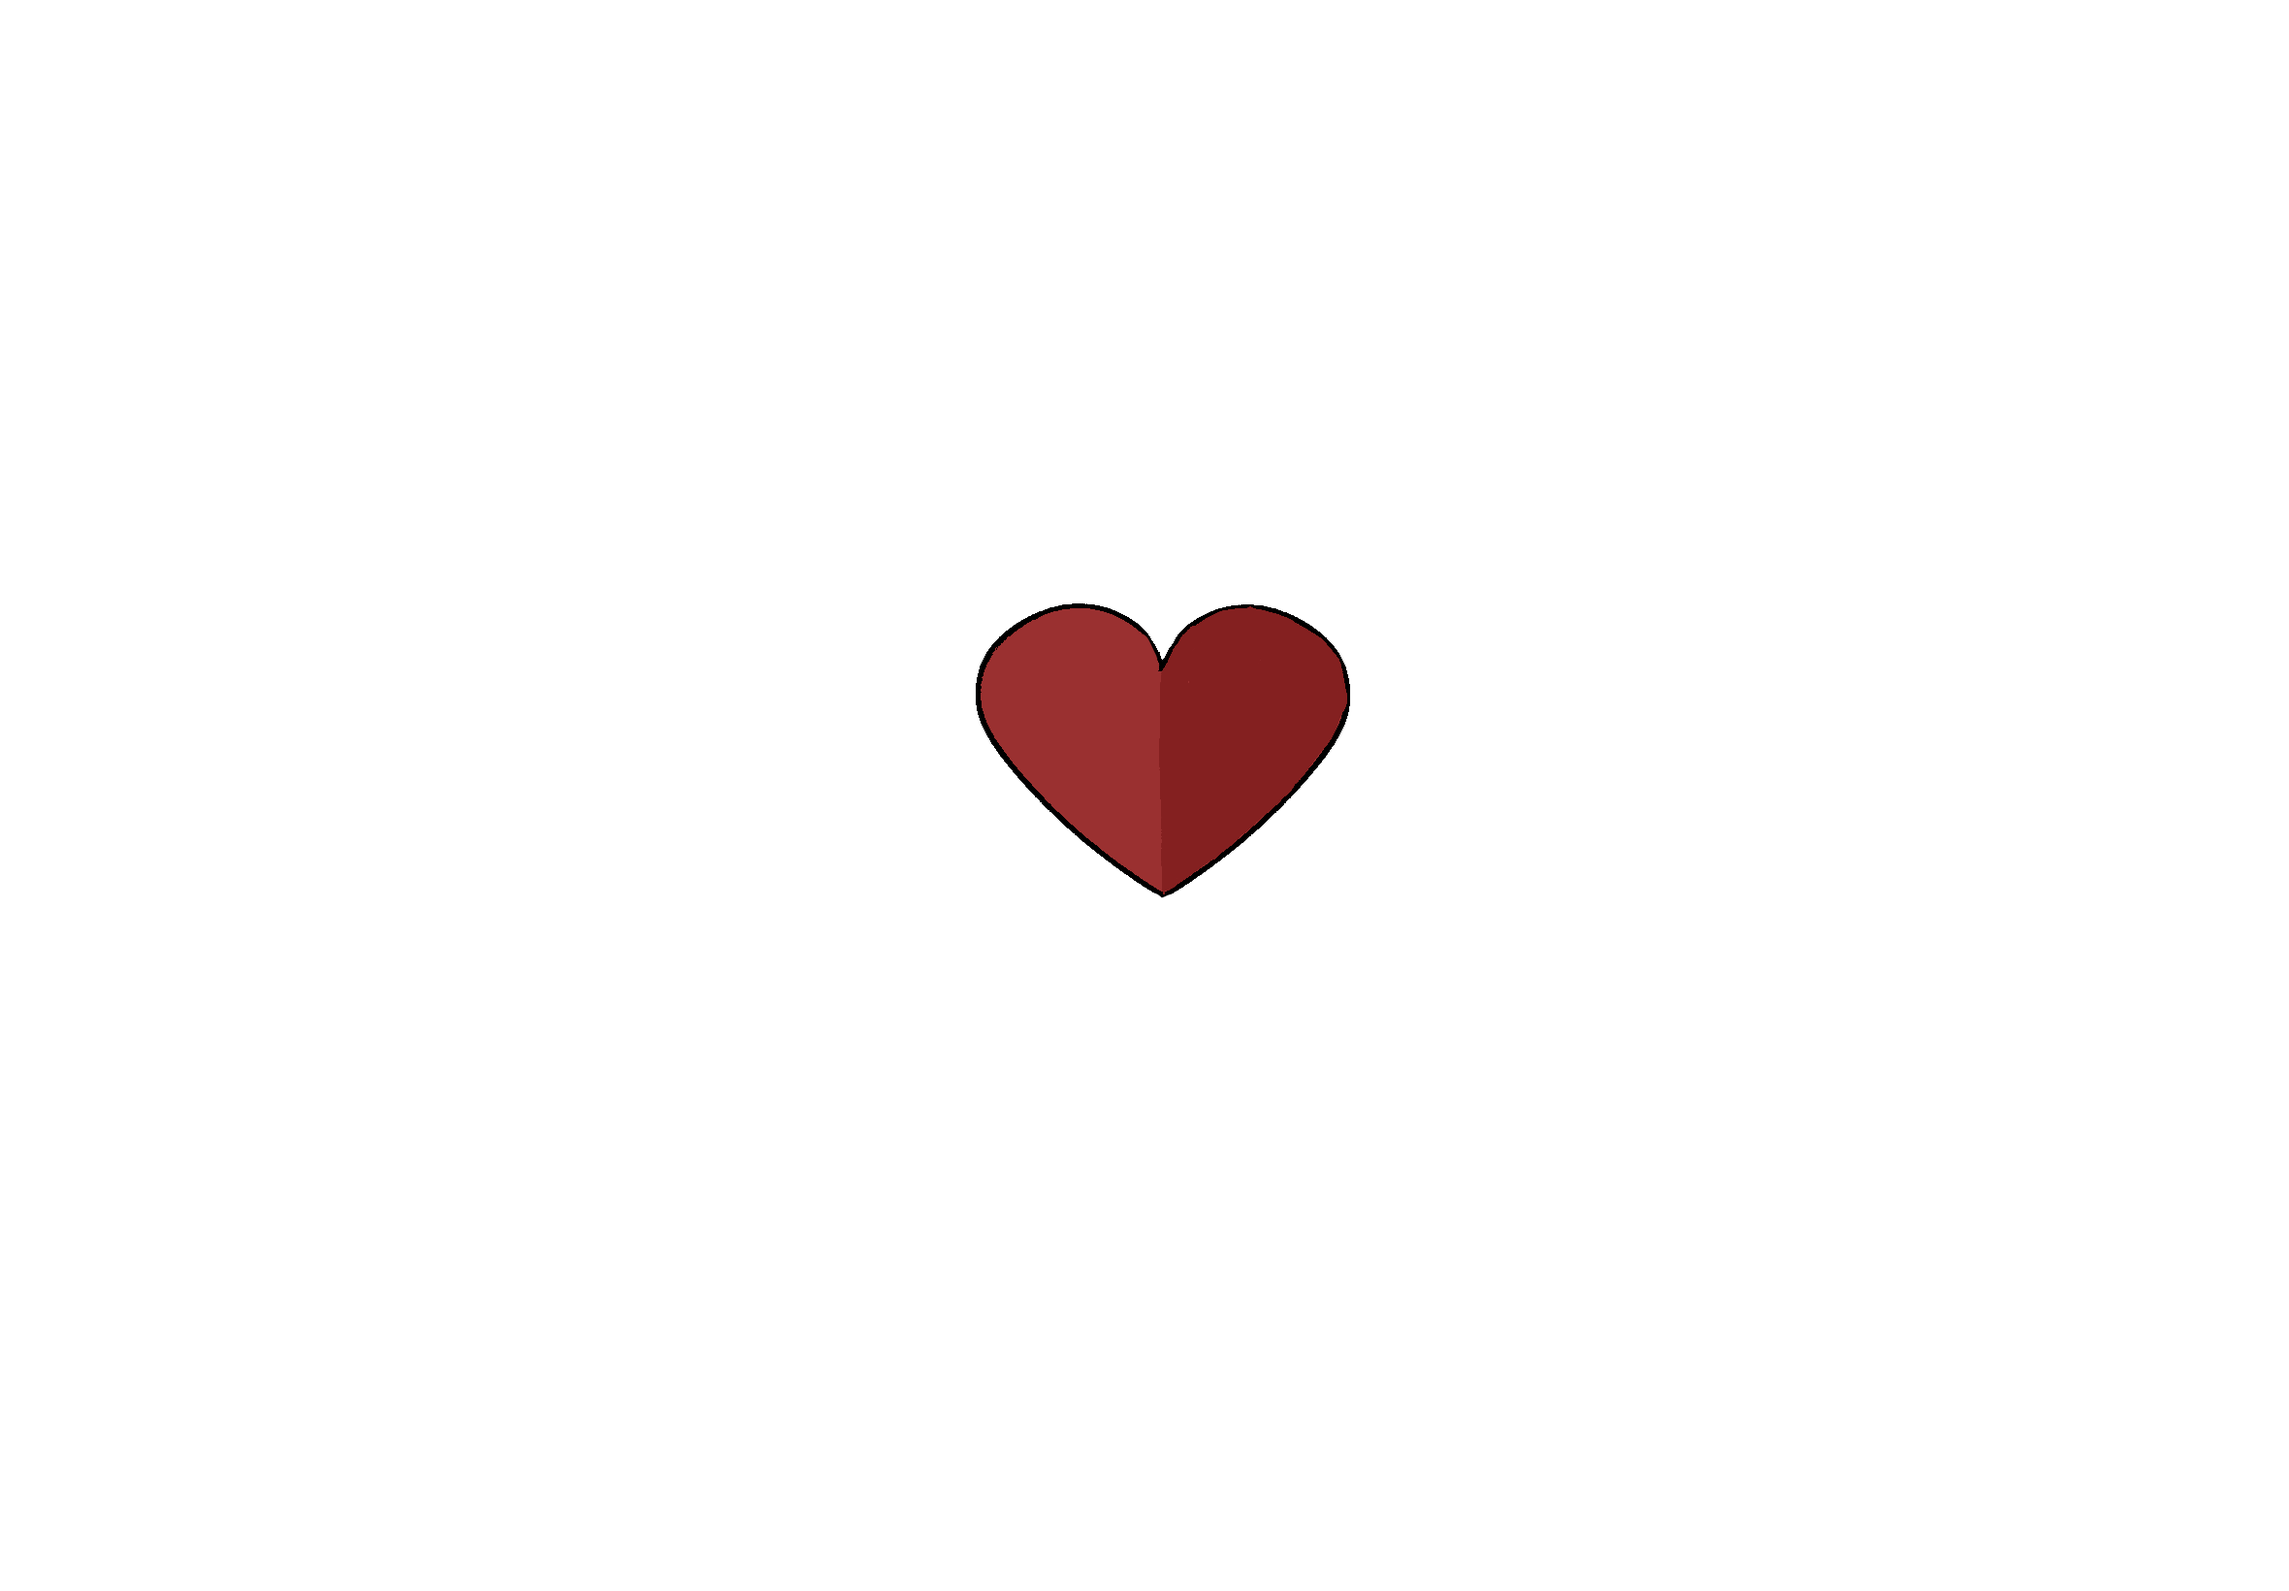
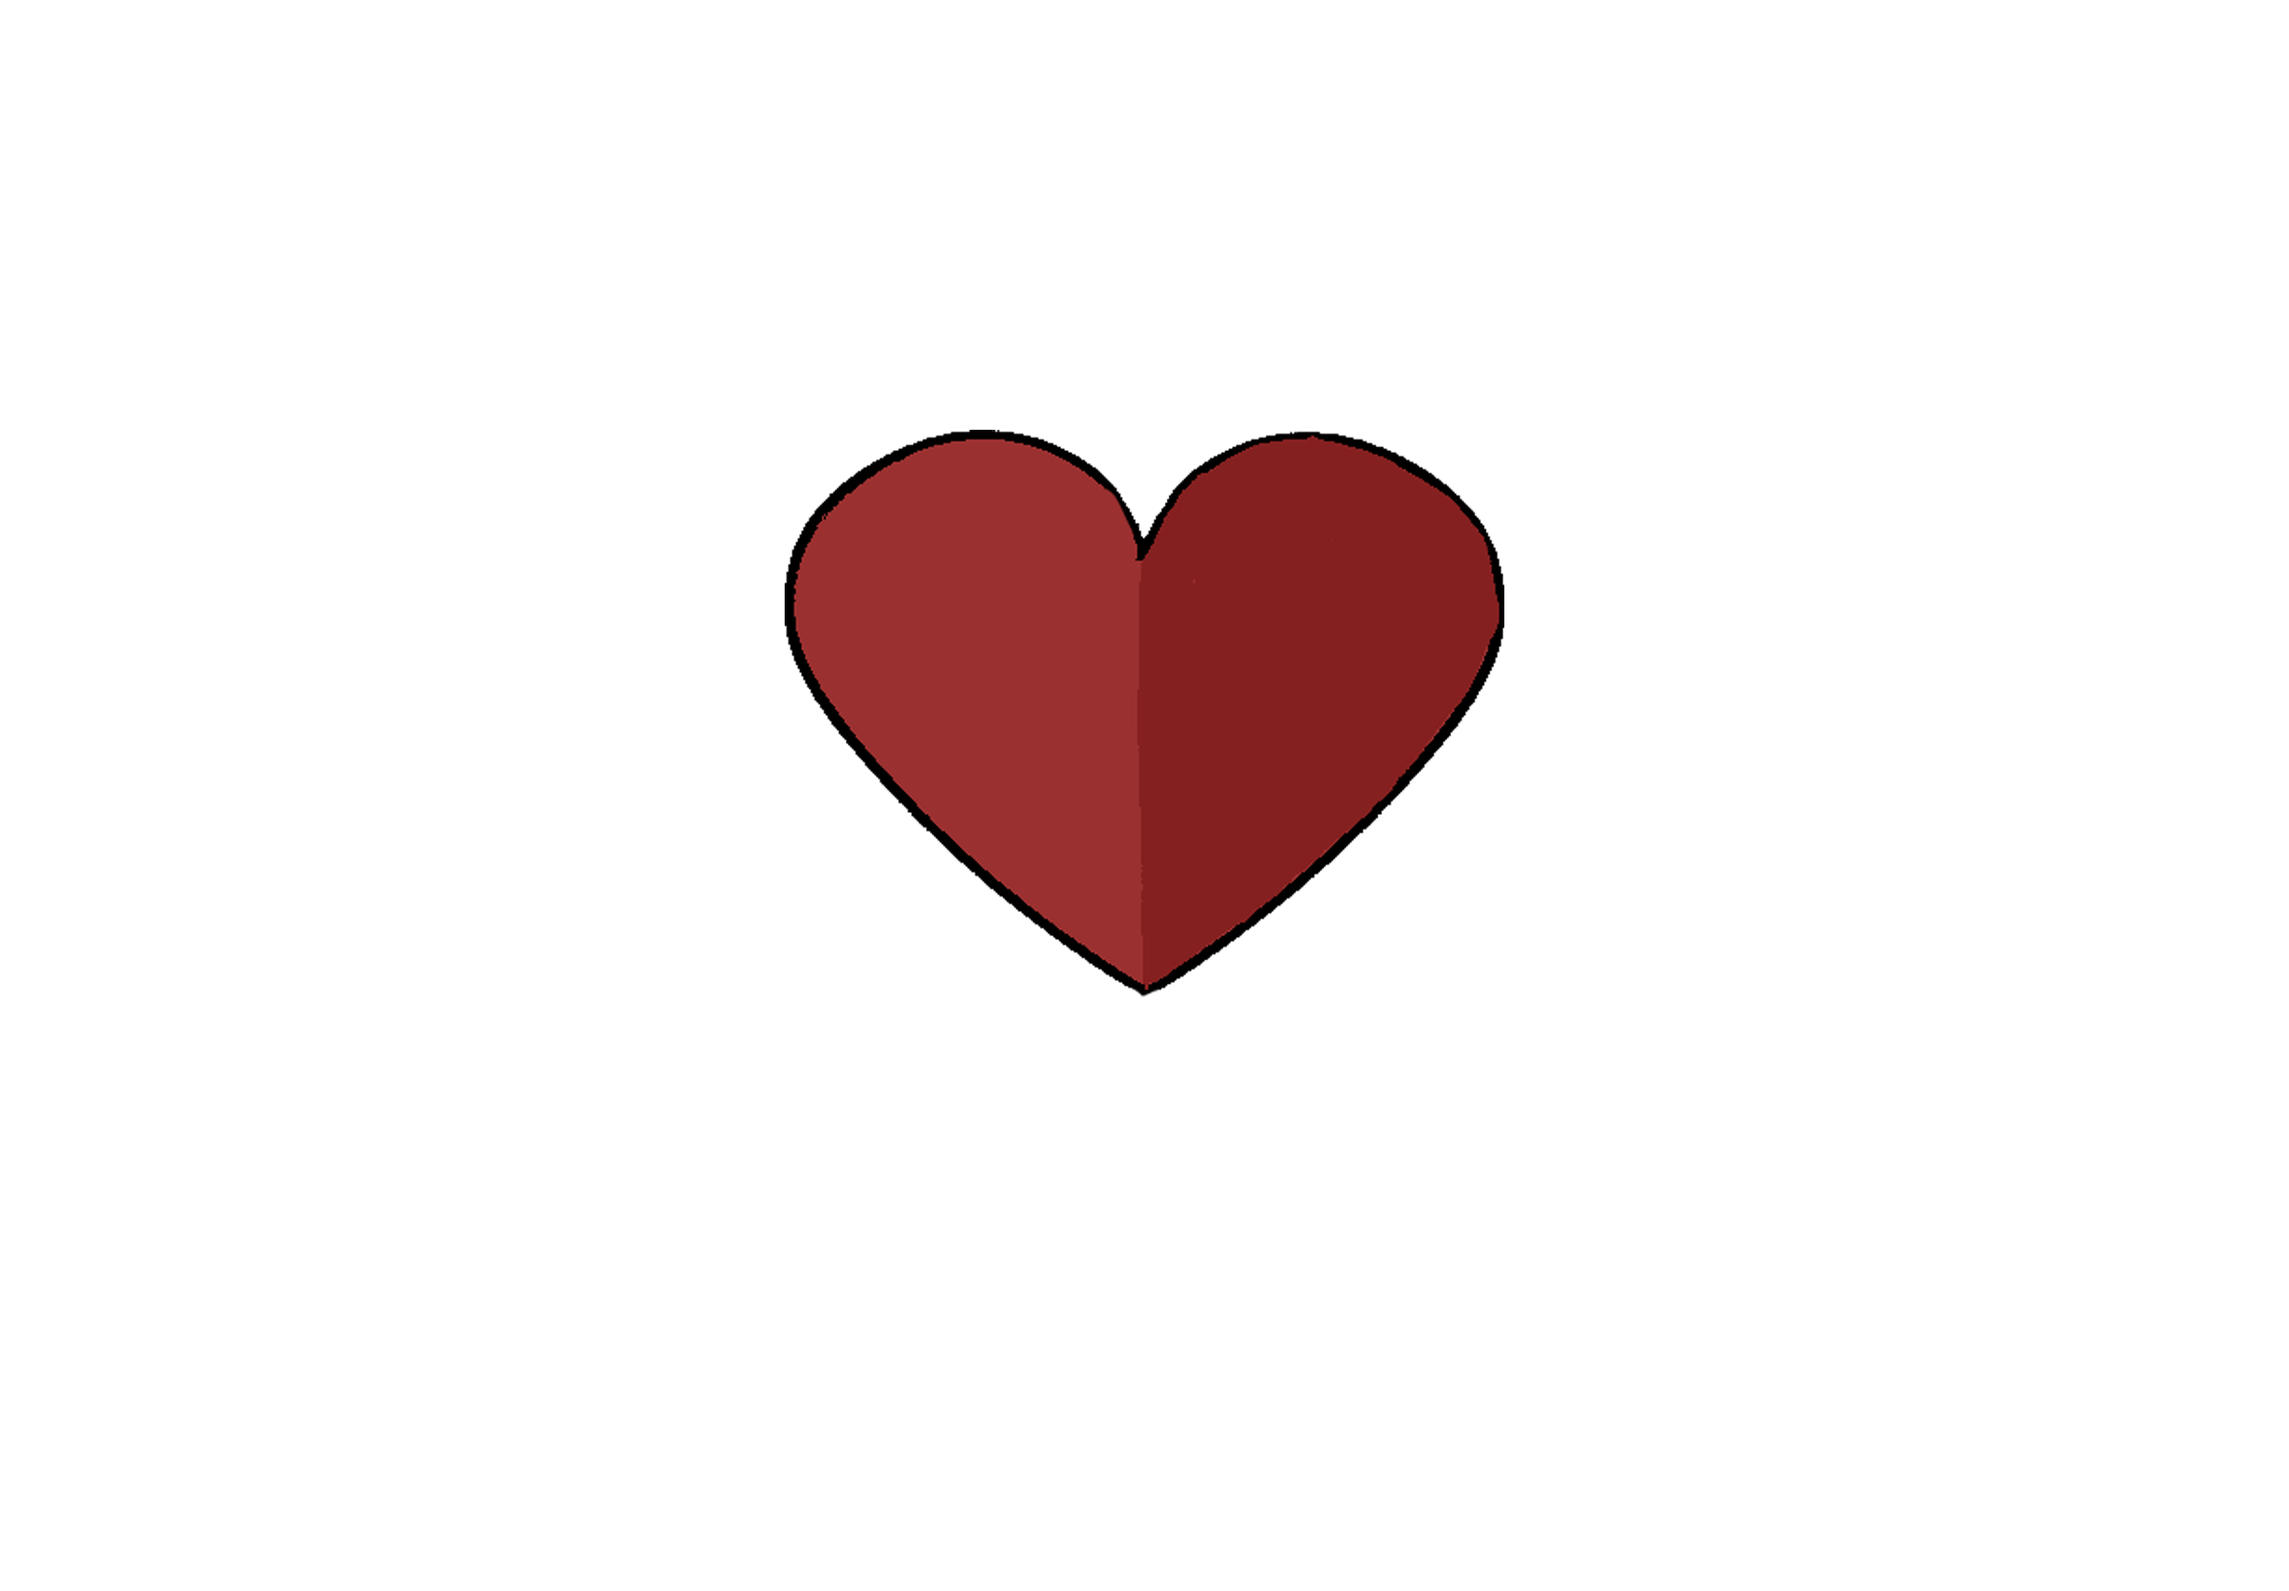
refactor: adjust index circle radius and improve suit placement logic

Changed region(s): [[0.3403, 0.2488, 0.6805, 0.622]]

diff --git a/code/2025-11-13-Germansuits/FingerPaint/sketch.js b/code/2025-11-13-Germansuits/FingerPaint/sketch.js
@@ -18,7 +18,7 @@ let frameImg; // 最外围蒙版 frame.png（素材相框）
 let frameMaskImg = null; // 由 frame.png 反转 alpha 生成的遮罩（白=保留，黑=裁切）
 let frameMaskReady = false;
 let frameInnerBounds = { x: 0, y: 0, w: 0, h: 0 }; // 镜框内窗的内接矩形（用于约束位置）
-const INDEX_CIRCLE_RADIUS = 90;
+const INDEX_CIRCLE_RADIUS = 80;
 let indexPos = null; // position of index finger circle
 let canvasBG; // background color
 let maskColor; // color tint inside the circular mask
@@ -27,6 +27,7 @@ const MIRROR_SCALE = 2.2;
 const MIRROR_ALPHA = 180;
 const EDGE_MARGIN = 20; // minimum distance from any image edge to canvas border
 const MIRROR_GAP = 12; // 镜片之间至少保留的像素空隙
+const SUIT_GAP = 180;   // 花色之间额外保留的最小像素间隙
 // snap settings
 const SNAP_HOLD_FRAMES = 30;   // how many consecutive frames inside mask before snapping
 const SNAP_LERP = 0.15;        // how fast the suit moves to the target
@@ -151,17 +152,25 @@ function setup() {
     if (suit) {
       const cx = ib.x + ib.w / 2;
       const cy = ib.y + ib.h / 2 + ib.h * 0.22; // 向下偏移 22% 内窗高度（更靠下）
-      const rx = min(width, height) * 0.12;     // 椭圆水平半径（更集中）
-      const ry = min(width, height) * 0.26;     // 椭圆竖直半径（拉长向下）
+      const rx = ib.w * 0.26;                   // 扩大分布范围（相对内窗）
+      const ry = ib.h * 0.36;
       let placed = false;
-      for (let t = 0; t < 20; t++) {
+      for (let t = 0; t < 40; t++) {
         const ang = random(TWO_PI);
         const dist01 = sqrt(random()); // 均匀填充
         const tx = cx + cos(ang) * dist01 * rx;
         const ty = cy + sin(ang) * dist01 * ry;
-        if (tx >= minX && tx <= maxX && ty >= minY && ty <= maxY) {
-          initX = tx; initY = ty; placed = true; break;
+        if (tx < minX || tx > maxX || ty < minY || ty > maxY) continue;
+        // 对比已放置的花色，保证中心距 >= 半径和 + SUIT_GAP
+        const rSelf = baseR * SUIT_SCALE;
+        let ok = true;
+        for (let j = 0; j < balls.length; j++) {
+          const o = balls[j];
+          if (!o.suit) continue;
+          const req = rSelf + effectiveRadius(o) + SUIT_GAP;
+          if (dist(tx, ty, o.x, o.y) < req) { ok = false; break; }
         }
+        if (ok) { initX = tx; initY = ty; placed = true; break; }
       }
       if (!placed) { initX = constrain(initX, minX, maxX); initY = constrain(initY, minY, maxY); }
     }
@@ -406,7 +415,7 @@ function draw() {
       try { localStorage.setItem('foundSuits', JSON.stringify(suitsData)); } catch(e) { /* ignore */ }
 
       // 跳转到目标页面（根据你的项目结构调整 URL）
-      const redirectUrl = 'http://127.0.0.1:5500/code/2025-11-12-mirror1/index.html';
+      const redirectUrl = 'http://127.0.0.1:5500/code/2025-11-12-mirror2/index.html';
       // 若你希望在同一窗口打开，使用 location.href；若新窗口使用 window.open
       window.location.href = redirectUrl;
       // window.open(redirectUrl, '_blank');
@@ -651,9 +660,9 @@ function enforceMaxOverlap(maxFrac = 0.10, attemptsPerBall = 120) {
       let tooMuch = false;
       for (let j = 0; j < i; j++) {
         const other = balls[j];
-       // 镜片-镜片不允许重叠，更严格；其他按默认阈值
-       const pairMaxFrac = (b.isMirror && other.isMirror) ? 0.0 : maxFrac;
-       if (overlapFraction(b, other) > pairMaxFrac) {
+       // 镜片-镜片与花色-花色均不允许重叠；其他按默认阈值
+       const pairMaxFrac = ((b.isMirror && other.isMirror) || (b.suit && other.suit)) ? 0.0 : maxFrac;
+        if (overlapFraction(b, other) > pairMaxFrac) {
           tooMuch = true;
           break;
         }
@@ -667,34 +676,37 @@ function enforceMaxOverlap(maxFrac = 0.10, attemptsPerBall = 120) {
       const maxY = ib.y + ib.h - r - EDGE_MARGIN;
 
       if (b.suit) {
-        // 使用内窗中心并向下偏移，保证随画布和内窗变化
+        // 使用内窗中心并向下偏移，扩大分布区并应用“最小间距”
         const canvasCenterX = ib.x + ib.w / 2;
-        const canvasCenterY = ib.y + ib.h / 2 + ib.h * 0.22; // 向下 22%（更靠下）
-        const suitSpreadRadiusX = min(width, height) * 0.12;
-        const suitSpreadRadiusY = min(width, height) * 0.26;
+        const canvasCenterY = ib.y + ib.h / 2 + ib.h * 0.22; // 向下 22%
+        const suitSpreadRadiusX = ib.w * 0.26;
+        const suitSpreadRadiusY = ib.h * 0.36;
 
         let bestPos = null;
-        let bestMinDist = -Infinity;
-        const minDistanceThreshold = 250;
+        let bestScore = -Infinity;
+        const rSelf = effectiveRadius(b);
 
-        for (let tries = 0; tries < 30; tries++) {
+        for (let tries = 0; tries < 50; tries++) {
           const angle = random(TWO_PI);
           const distance = sqrt(random(1));
           const testX = canvasCenterX + cos(angle) * distance * suitSpreadRadiusX;
           const testY = canvasCenterY + sin(angle) * distance * suitSpreadRadiusY;
           if (testX < minX || testX > maxX || testY < minY || testY > maxY) continue;
 
-          let minDistToOthers = Infinity;
+          // 与所有已放置元素保持：中心距 >= 半径和 + SUIT_GAP
+          let valid = true;
+          let minGap = Infinity;
           for (let j = 0; j < i; j++) {
-            const d = dist(testX, testY, balls[j].x, balls[j].y);
-            minDistToOthers = min(minDistToOthers, d);
+            const o = balls[j];
+            const req = rSelf + effectiveRadius(o) + SUIT_GAP;
+            const d = dist(testX, testY, o.x, o.y);
+            const gap = d - req;
+            if (gap < 0) { valid = false; break; }
+            minGap = min(minGap, gap);
           }
-          // 优先满足阈值的点
-          const score = (minDistToOthers >= minDistanceThreshold) ? minDistToOthers + 1000 : minDistToOthers;
-          if (score > bestMinDist) {
-            bestMinDist = score;
-            bestPos = { x: testX, y: testY };
-          }
+          if (!valid) continue;
+          const score = minGap; // 越远越好
+          if (score > bestScore) { bestScore = score; bestPos = { x: testX, y: testY }; }
         }
         if (bestPos) { b.x = bestPos.x; b.y = bestPos.y; }
         else { b.x = random(minX, maxX); b.y = random(minY, maxY); }
@@ -770,8 +782,8 @@ function computeFrameInnerBounds() {
   }
   if (maxX >= minX && maxY >= minY) {
     // 分别调整水平和竖直的内缩距离
-    const padHorizontal = 100; // 左右内缩距离，减小以平衡左右
-    const padVertical = 100;   // 上下内缩距离
+    const padHorizontal = 110; // 左右内缩距离，减小以平衡左右
+    const padVertical = 120;   // 上下内缩距离
      minX = constrain(minX + padHorizontal, 0, width);
      minY = constrain(minY + padVertical, 0, height);
      maxX = constrain(maxX - padHorizontal, 0, width);

diff --git a/code/2025-11-12-franchsuits/FingerPaint/sketch.js b/code/2025-11-12-franchsuits/FingerPaint/sketch.js
@@ -17,7 +17,7 @@ let frameImg; // 最外围蒙版 frame.png（素材相框）
 let frameMaskImg = null; // 由 frame.png 反转 alpha 生成的遮罩（白=保留，黑=裁切）
 let frameMaskReady = false;
 let frameInnerBounds = { x: 0, y: 0, w: 0, h: 0 }; // 镜框内窗的内接矩形（用于约束位置）
-const INDEX_CIRCLE_RADIUS = 90;
+const INDEX_CIRCLE_RADIUS = 80;
 let indexPos = null; // position of index finger circle
 let canvasBG; // background color
 let maskColor; // color tint inside the circular mask
